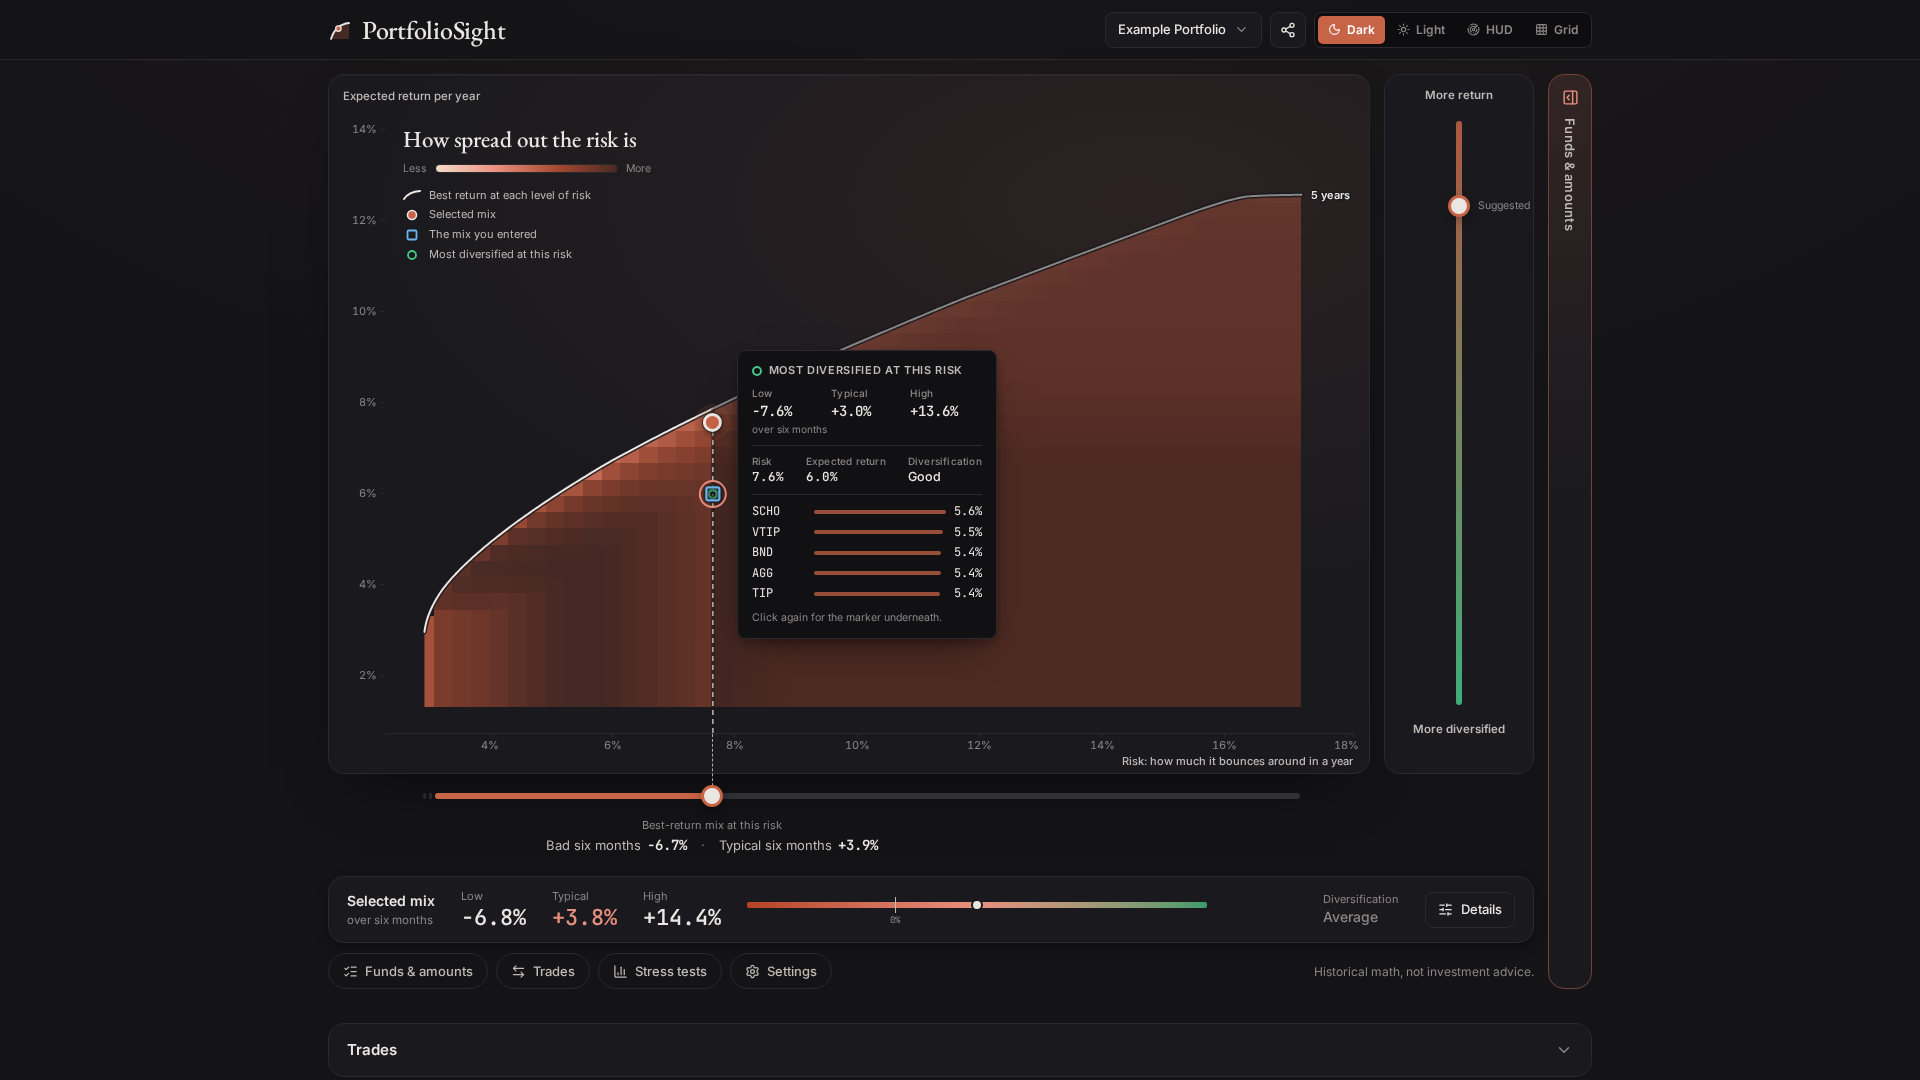
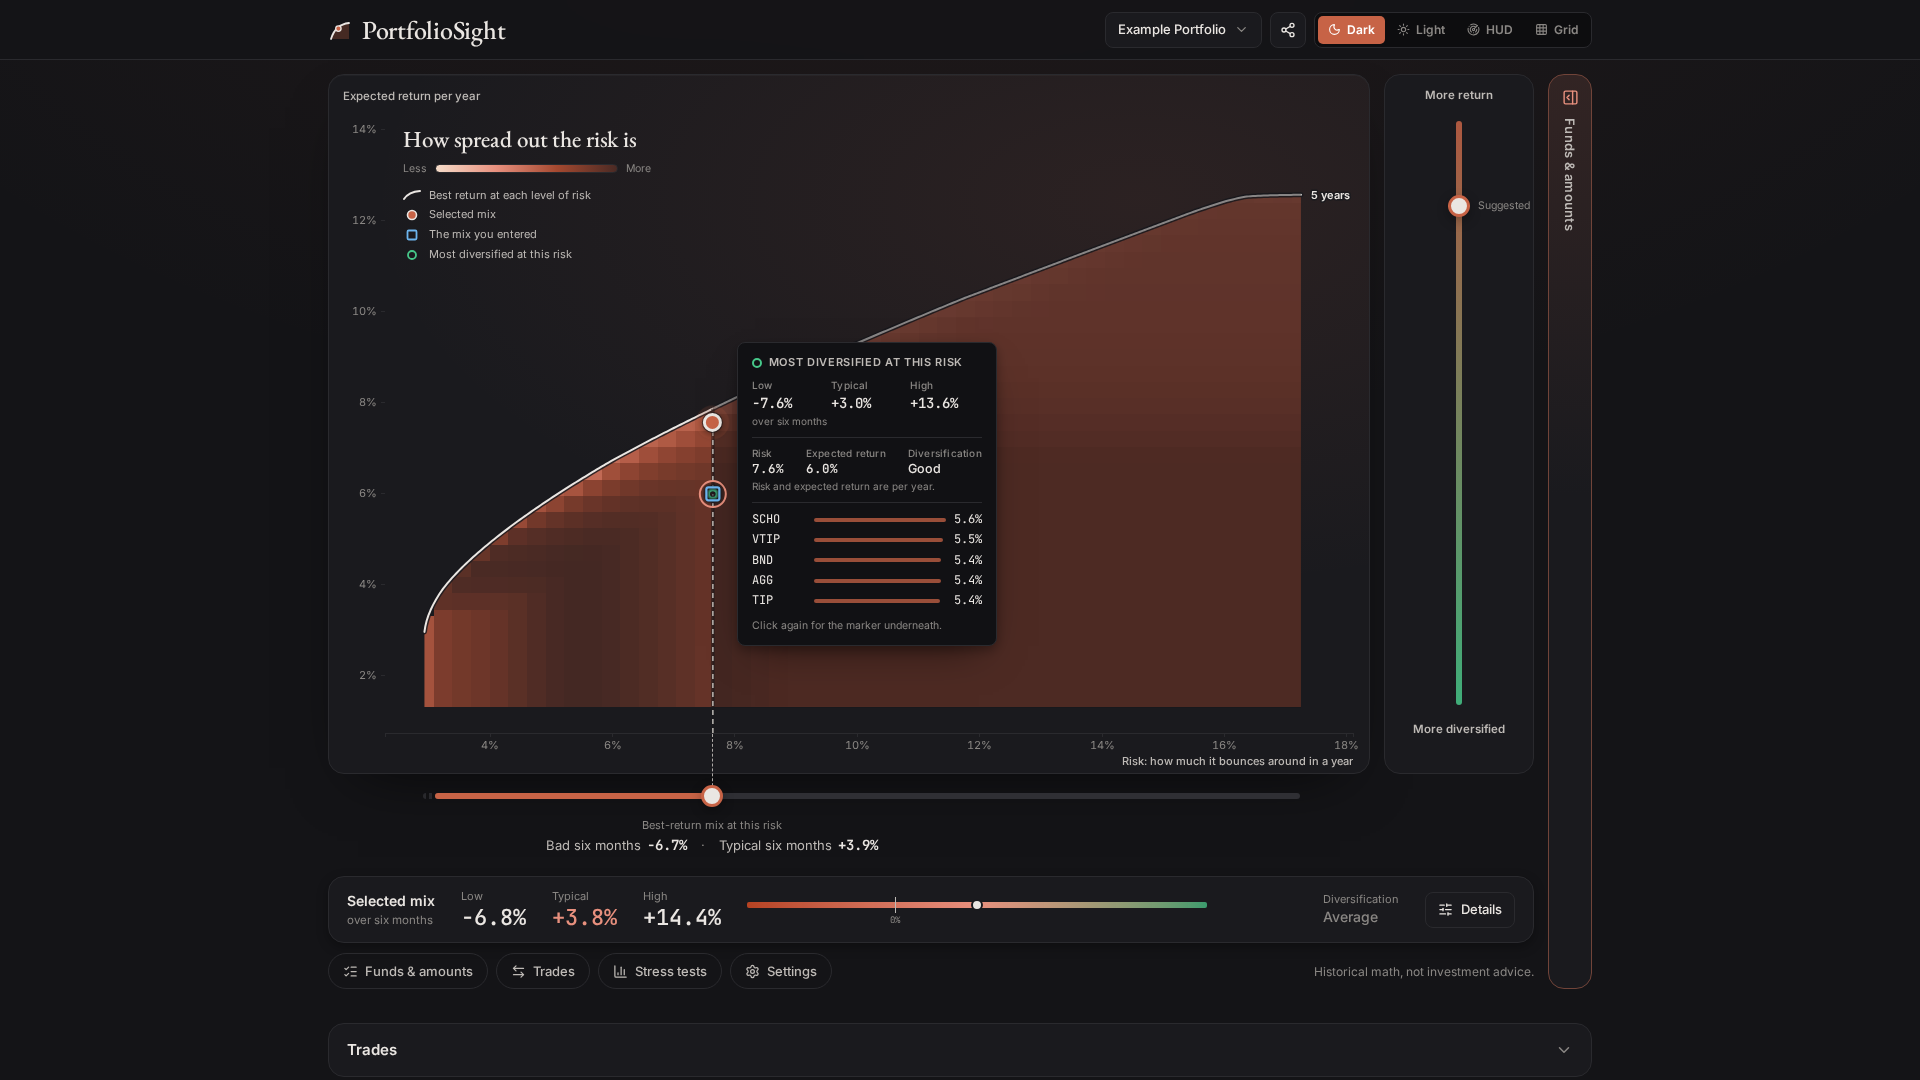
Docs: spec and ROADMAP follow the review fixes; screenshots regenerated
ROADMAP.md:20
docs/reviews/2026-10-13_feedback1_card-current_ks-dark_desktop.png (binary)
docs/reviews/2026-10-13_feedback1_card-current_ks-dark_wide.png (binary)
docs/reviews/2026-10-13_feedback1_card-div_ks-dark_desktop.png (binary)
docs/reviews/2026-10-13_feedback1_card-div_ks-dark_wide.png (binary)
docs/reviews/2026-10-13_feedback1_card-map_ks-dark_desktop.png (binary)
docs/reviews/2026-10-13_feedback1_card-map_ks-dark_wide.png (binary)
docs/reviews/2026-10-13_feedback1_card-selected_ks-dark_desktop.png (binary)
docs/reviews/2026-10-13_feedback1_card-selected_ks-dark_wide.png (binary)
docs/reviews/2026-10-13_feedback1_first-screen_grid_desktop.png (binary)
docs/reviews/2026-10-13_feedback1_first-screen_grid_wide.png (binary)
docs/reviews/2026-10-13_feedback1_first-screen_hud_desktop.png (binary)
docs/reviews/2026-10-13_feedback1_first-screen_hud_phone.png (binary)
docs/reviews/2026-10-13_feedback1_first-screen_hud_wide.png (binary)
docs/reviews/2026-10-13_feedback1_ghost-labels_ks-dark_desktop.png (binary)
docs/reviews/2026-10-13_feedback1_ghost-labels_ks-dark_wide.png (binary)
docs/reviews/2026-10-13_feedback1_sidebar-open-card_hud_wide.png (binary)
docs/reviews/2026-10-13_feedback1_sidebar-open_ks-dark_desktop.png (binary)
docs/reviews/2026-10-13_feedback1_sidebar-open_ks-dark_wide.png (binary)
docs/reviews/2026-10-13_first-screen_grid_desktop.png (binary)
docs/reviews/2026-10-13_first-screen_grid_phone.png (binary)
[…]

Changed region(s): [[0.375, 0.3056, 0.5312, 0.6111]]

diff --git a/docs/specs/2026-10-13-portfoliosight-demo-design.md b/docs/specs/2026-10-13-portfoliosight-demo-design.md
@@ -47,7 +47,7 @@ One viewport, no scrolling needed to use the product. Layout (desktop ≥ 1024 p
 
 **Funds & amounts sidebar (≥ 1024 px; owner feedback 1).** On every screen 1024 px or wider, Funds & amounts (§3.3) is a sidebar on the right of the first screen, beside the chart, the diversification slider and the result strip, so the table can be read while the chart is used. It is closed by default to a slim vertical tab that carries its name and an open icon; the tab, the "Funds & amounts" chip and "Custom…" in the preset menu open it, and the same button closes it. Open, it takes about a third of the width (348–440 px), the chart moves left and resizes, and the page's maximum width grows so a wide screen is used. Its body scrolls inside the first screen. Open or closed is remembered per browser (`localStorage("ps.funds")`). Under 1024 px there is no sidebar and Funds & amounts is the first collapsed section below the first screen, as before.
 
-Chart contents, in draw order: (1) heatmap of Z over the grid of (risk ceiling, return floor) cells (canvas; each cell is drawn at its grid position and colored by the ENB of the mix computed for that ceiling/floor pair; the ramp runs against the measure, so the band along the frontier, where mixes are least spread out, is the brightest and the well-spread valleys below are darker (on the white page of the Light theme the same end of the ramp is the deepest blue, the strongest colour against the page, and the valleys are pale): the frontier reads as a wall, not a cliff edge); (2) ghost frontiers (thin, 40% opacity, one per toggled lookback); every frontier line, the primary one included, carries a text label at its right end naming its history window ("1 year", "2 years", "3 years", "5 years", "10 years", "Weighted recent"), to the right of the line's end where there is room and above it otherwise (always above on a phone); labels that would touch are stepped apart and joined to their line by a short leader, the primary line keeping its place; with a mouse, a pointer within 7 px of a ghost line redraws that line at full strength and shows its name beside the pointer (the primary line needs none); (3) primary frontier (2 px): **one curve**, the locus of the interpolated frontier weights' actual (σ, μ) (§4.11), sampled at 8 sub-steps per column gap and passing through every grid node; (4) vertical dashed line at the selected risk ceiling X from the axis up to the frontier; (5) "most diversified" marker (small hollow circle) at the actual (σ, μ) of the column's most-diversified mix; (6) current-mix marker (hollow square) at its actual (σ, μ) when an allocation exists; (7) selected-point marker (filled circle with ring) at the selected mix's **actual** (σ, μ), which lies on or to the left of the ceiling line and, at the top of the diversification slider, exactly on the drawn frontier by construction; draggable (vertical drag = diversification slider, horizontal drag = risk slider); (8) individual fund dots with ticker labels only when details are on. **[choice]** Every mix is plotted where it really is and the line marks the ceiling (between grid nodes the frontier mix itself sits slightly left of the ceiling, which the tooltip explains), because re-parameterizing the grid on realized risk would cost a second solve pass for no product gain. No tangency point, no capital market line, no Sharpe anywhere. **Mix cards.** One card design names every mix the chart shows. The selected point, the square (the mix you entered) and the open circle (most diversified at this risk) each show it on hover, tap or keyboard focus: Low / Typical / High over six months, yearly risk and expected return, the diversification word, and the five largest holdings. When the square and the circle sit on top of each other, a second tap or click turns the card over to the marker underneath, and the card says so. With a mouse, the colour map shows a smaller card for the mix at the cell under the pointer ("The mix at this spot": risk, expected return, diversification word, largest holdings); it gives way to a marker's card and to a ghost line's name. Default cards never mention a ceiling or a floor; with details on, each card adds the measure behind the word ("spreads risk over the equivalent of N independent bets; highest found on this menu: M"), the selected card adds its risk ceiling and the cell card adds "Computed for risk ceiling X and return floor Y".
+Chart contents, in draw order: (1) heatmap of Z over the grid of (risk ceiling, return floor) cells (canvas; each cell is drawn at its grid position and colored by the ENB of the mix computed for that ceiling/floor pair; the ramp runs against the measure, so the band along the frontier, where mixes are least spread out, is the brightest and the well-spread valleys below are darker (on the white page of the Light theme the same end of the ramp is the deepest blue, the strongest colour against the page, and the valleys are pale): the frontier reads as a wall, not a cliff edge); (2) ghost frontiers (thin, 40% opacity, one per toggled lookback); every frontier line, the primary one included, carries a text label at its right end naming its history window ("1 year", "2 years", "3 years", "5 years", "10 years", "Weighted recent"), to the right of the line's end where there is room and above it otherwise (always above on a phone); labels that would touch are stepped apart and joined to their line by a short leader, the primary line keeping its place; with a mouse, a pointer within 7 px of a ghost line redraws that line at full strength and shows its name beside the pointer (the primary line needs none); (3) primary frontier (2 px): **one curve**, the locus of the interpolated frontier weights' actual (σ, μ) (§4.11), sampled at 8 sub-steps per column gap and passing through every grid node; (4) vertical dashed line at the selected risk ceiling X from the axis up to the frontier; (5) "most diversified" marker (small hollow circle) at the actual (σ, μ) of the column's most-diversified mix; (6) current-mix marker (hollow square) at its actual (σ, μ) when an allocation exists; (7) selected-point marker (filled circle with ring) at the selected mix's **actual** (σ, μ), which lies on or to the left of the ceiling line and, at the top of the diversification slider, exactly on the drawn frontier by construction; draggable (vertical drag = diversification slider, horizontal drag = risk slider); (8) individual fund dots with ticker labels only when details are on. **[choice]** Every mix is plotted where it really is and the line marks the ceiling (between grid nodes the frontier mix itself sits slightly left of the ceiling, which the tooltip explains), because re-parameterizing the grid on realized risk would cost a second solve pass for no product gain. No tangency point, no capital market line, no Sharpe anywhere. **Mix cards.** One card design names every mix the chart shows. The selected point, the square (the mix you entered) and the open circle (most diversified at this risk) each show it on hover, tap or keyboard focus: Low / Typical / High over six months, yearly risk and expected return (with the line "Risk and expected return are per year."), the diversification word, and the five largest holdings. The open card is the accessible description of the marker it belongs to. When the square and the circle sit on top of each other, a second tap or click turns the card over to the marker underneath, and the card says so. With a mouse, the colour map shows a smaller card for the mix at the cell under the pointer ("The mix at this spot": risk, expected return, diversification word, largest holdings); it gives way to a marker's card and to a ghost line's name. Default cards never mention a ceiling or a floor; with details on, each card adds the measure behind the word ("spreads risk over the equivalent of N independent bets; highest found on this menu: M"), the selected card adds its risk ceiling and the cell card adds "Computed for risk ceiling X and return floor Y".
 
 ### 3.2 Controls
 
@@ -64,7 +64,7 @@ Chart contents, in draw order: (1) heatmap of Z over the grid of (risk ceiling, 
 Accordion sections in this order; chips on the first screen scroll to and expand the matching section. **[choice]** Sections further down the page rather than a drawer: one implementation works on every width and keeps the first screen clean.
 
 1. **Funds & amounts** (a sidebar beside the chart from 1024 px, §3.1; this section below that): table of the menu: ticker, name, amount entered (number), then two percentage columns that are always shown whatever the unit: "Mix entered %" (the amounts as percentages of what was entered, blank when no amounts are entered or the percentages do not yet add up) and "Selected mix %" (the weights of the point selected in the chart, updating as either slider moves); status note for a fund the view sets aside (e.g. "converted to an ETF; no data since 2024-10-30: not used" for FIENX in a custom menu; the default menu has no such fund). A three-way unit toggle **Shares | % | $** applies to the whole table; the amount column is headed "Shares (Qty)", "Share (%)" or "Amount ($)". Input modes: tickers only (all amounts blank: no current mix, no Trades); tickers and share quantities (weights = shares × the fund's latest close on the generation date, `universe.funds[].last_close` in the tensor, §7); tickers and portfolio percentages (must add up to 100%: an inline message shows the running total, e.g. "Adds up to 92%: 8% to go", and no mix is plotted until it reads 100% ± 0.05); tickers and dollar amounts. Amounts apply as they are typed, and a one-line hint says so ("Amounts apply as you type."). Add fund (autocomplete over `/api/symbols`, which lists only served symbols; help text "Only funds and stocks with verified current data are offered."), remove fund. Adding or removing a fund changes a draft of the list; only while the draft differs from the list that is plotted, a "Recalculate with these funds" button is shown (it triggers the tensor fetch/build; disabled while percentages do not add up or the list has fewer than 2 or more than 30 funds). Max 30 funds; min 2. The Example Portfolio arrives in "$" mode with amounts from `data/holdings/holdings_guide2017_step2.csv` (Qty × Price); the TSP preset arrives blank. TSP L Funds are served and appear in the picker but are not a preset.
-2. **Trades**: shown only when a current mix exists. Per fund: now %, selected %, change in percentage points, plus the change in dollars in "$" mode and the change in shares and dollars in "Shares" mode (`Δshares = round((w_sel − w_now) · V / last_close)`, `V = Σ shares · last_close`); "%" mode shows percentage points only. Totals: one-way turnover. Copy: "Moves to get from the mix you entered to the selected mix." An "Export CSV" button downloads the table from the browser (nothing is sent): one row per fund held in either mix with fund, now %, selected %, change in percentage points, plus the change in dollars in "$" and "Shares" modes and the change in whole shares in "Shares" mode; plain numbers; the file is named `portfoliosight-trades-{asof}.csv`.
+2. **Trades**: shown only when a current mix exists. Per fund: now %, selected %, change in percentage points, plus the change in dollars in "$" mode and the change in shares and dollars in "Shares" mode (`Δshares = round((w_sel − w_now) · V / last_close)`, `V = Σ shares · last_close`); "%" mode shows percentage points only. Totals: one-way turnover. Copy: "Moves to get from the mix you entered to the selected mix." An "Export CSV" button downloads the table from the browser (nothing is sent): one row per fund with any non-zero figure (held in either mix, or traded) with fund, now %, selected %, change in percentage points, plus the change in dollars in "$" and "Shares" modes and the change in whole shares in "Shares" mode; plain numbers; the file is named `portfoliosight-trades-{asof}.csv`.
 3. **Stress tests**: three cards (§4.10). Under the big number the parenthetical reads "(Selected mix)" on every card, and the line for the mix you entered ("The mix you entered: −27.6%") is bold, label and number.
 4. **Settings**: lookback (radio: 1y, 2y, 3y, 5y (default), 10y, Weighted toward recent) with a list of funds excluded in that window and why; ghost frontiers (one checkbox per other lookback; each ghost can be toggled on and off again); caps table (min %, max % per fund, inline validation per §4.4, "Reset to default rule", one-sentence rule explanation); "Share this view" (copies the URL) with the share icon beside it (§3.2).
 
@@ -119,7 +119,7 @@ Grid specifics (the look that was first called HUD; theme id `grid`): cyan on bl
 | Diversification slider | "More return" ↔ "More diversified" | "Return floor along the column at risk ceiling X; bottom end = the column's highest-ENB computed mix" |
 | Suggested marker | "Suggested" | Plain: "Suggested is the most diversified mix at this risk that still earns about as much as the best-return mix: what it gives up in return is too small to tell apart from the ordinary day-to-day noise in the two mixes' returns." Then, once, on the "Method" line: "Lowest return floor whose give-up versus the frontier mix is within one standard error of the paired daily return difference (a heuristic, not a significance test)". Both strings live only in `web/src/copy.ts` (`technical.suggested`, `technical.suggestedMethod`); the tensor's own note repeating the rule is not shown a second time. |
 | Frontier line labels | "1 year" · "2 years" · "3 years" · "5 years" · "10 years" · "Weighted recent" | — |
-| Mix cards | "Selected mix" · "The mix you entered" · "Most diversified at this risk" · "The mix at this spot"; "Low / Typical / High over six months", "Risk", "Expected return", "Diversification" | "This mix spreads risk over the equivalent of N independent bets; highest found on this menu: M." · "Risk ceiling X." · "Computed for risk ceiling X and return floor Y." |
+| Mix cards | "Selected mix" · "The mix you entered" · "Most diversified at this risk" · "The mix at this spot"; "Low / Typical / High over six months", "Risk", "Expected return", "Diversification", "Risk and expected return are per year." | "This mix spreads risk over the equivalent of N independent bets; highest found on this menu: M." · "Risk ceiling X." · "Computed for risk ceiling X and return floor Y." |
 | Funds table | "Mix entered %" · "Selected mix %" · "Shares (Qty)" · "Amounts apply as you type." · "The fund list has changed: recalculate to see it on the chart." · "Recalculate with these funds" | — |
 | Trades export | "Export CSV" | — |
 | Frontier | "Best return at each level of risk" | "Long-only mean-variance efficient frontier with caps; drawn as the locus of interpolated frontier mixes' actual risk and return" |

diff --git a/ROADMAP.md b/ROADMAP.md
@@ -17,7 +17,7 @@ method are in `docs/reviews/`.
   one; stress cards for 2008, March 2020 and 2022 that never show a number for a mix that mostly
   did not exist; per-fund limits that scale with the size of the menu; six lookbacks with faint
   overlays.
-- Three looks (KnowledgeSight dark, Light, HUD), a phone layout, an address that always describes
+- Four looks (KnowledgeSight dark, Light, HUD, Grid), a phone layout, an address that always describes
   the view, and a share dialog that copies the link or emails a fixed message.
 - Engine: shrunk returns, Ledoit-Wolf covariance, long-only frontier with caps, effective number
   of bets by minimum torsion, a precomputed tensor per menu and lookback; the browser interpolates
